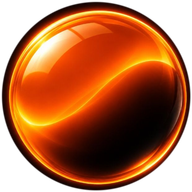
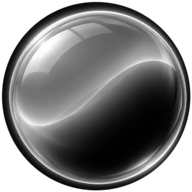
few updates more

diff --git a/src/components/orb/OrbCanvas.tsx b/src/components/orb/OrbCanvas.tsx
@@ -208,7 +208,7 @@ export default function OrbCanvas({
 
     const styles = getComputedStyle(document.documentElement);
     const accentHex = styles.getPropertyValue("--accent") || "#EA580C";
-    const accentLightHex = styles.getPropertyValue("--accent-light") || "#FB923C";
+    const accentLightHex = styles.getPropertyValue("--accent") || "#EA580C";
     const accentDarkHex = styles.getPropertyValue("--accent-hover") || "#C2410C";
 
     const vAccent = parseColorToVec3(accentHex, [0.918, 0.345, 0.047]);

diff --git a/README.md b/README.md
@@ -1,93 +1,2 @@
-# Adarsh — Personal Portfolio
-
-A dark-mode, high-craft personal portfolio built with **Next.js (App Router)**, **TypeScript**, **Tailwind CSS**, and **Framer Motion**, matching the referenced minimalist design aesthetic.
-
----
-
-## ✨ Features & Visual Details
-
-1. **Loader:**
-   - Big cursive "Adarsh" lettering centered on pure black screen.
-   - Smooth left-to-right fill animation with a glowing amber accent underline before unveiling the page.
-
-2. **Top Bar:**
-   - Minimal transparent top bar with "Adarsh" centered.
-   - Smooth-scrolls back to top on click.
-
-3. **Dock Navigation:**
-   - **Desktop (Right-side Vertical Dock):**
-     - Fixed to the extreme right edge, vertically centered.
-     - Appears after scrolling past the Hero section (`fade + slide-in` from the right).
-     - Translucent glass buttons with hover tooltips (`Home`, `Projects`, `Experience`, `Contact`, `GitHub`, `LinkedIn`, `Connect`, `Resume`).
-     - Real-time `IntersectionObserver` active section indicator.
-     - "Connect" copies email with a live feedback badge; "Resume" triggers download.
-   - **Mobile (Bottom Floating Dock):**
-     - Floating frosted glass horizontal pill at the bottom of the viewport.
-
-4. **Section 1: Hero / About:**
-   - Top metadata row: weather temperature (`☁ 24°C`) on left, live clock (`HH:MM:SS AM/PM GMT+5:30`) on right.
-   - Rounded-square avatar with subtle border.
-   - Role and bio paragraphs with bold off-white keywords and inline badges/emojis (`⚡`, `🧪`, `🇮🇳`).
-   - "Talk to agent" interactive modal button + resume icon button.
-   - Global keyboard shortcut: **Press `C` to copy email** to clipboard.
-
-5. **Section 2: Work / Projects (Folder Cards):**
-   - 2 large featured projects + compact secondary projects.
-   - Light pastel cards (`#FFFFFF`, `#EDF5ED`, `#FFFBF2`, `#FFF4F2`) standing out on the dark page.
-   - **Folder hover animation:** the front card tilts with 3D spring dynamics, revealing a colored sheet behind it angled at 10° with `"CLICK TO READ"` written vertically.
-   - Pixel-font titles (`font-pixel` / Silkscreen / Pixelify Sans).
-
-6. **Section 3: Experience & Education (List + Drag Timeline):**
-   - Top-right toggle pill: `list` | `timeline`.
-   - Handwritten `"try this \"` annotation with a curved yellow arrow pointing to the switch.
-   - **List View:** Vertical connecting line, square logo tiles (current position features an active pulsating green dot), expandable accordion with amber asterisks (`*`) on highlights.
-   - **Timeline View:** Horizontal drag-to-scroll timeline (2018–2027) with subtle year columns, top golden ambient bar, stacked lanes, short-stint tiles, and a dashed amber vertical `"now"` marker.
-   - Handwritten footer note: `"drag sideways, the last 8 years are in here"`.
-
-7. **Section 4: Stack / Tools:**
-   - Monospace label `STACK`, heading `"what I make things with"`.
-   - Categories: `DESIGN` and `MUSIC & AUDIO`.
-   - Rounded-square grayscale icon tiles with hover brightening and tooltips.
-   - Handwritten `"+ more"` at the end of each group.
-
-8. **Section 5: Contact & Type-Erase Wordmark:**
-   - Giant centered wordmark `@Adarsh`.
-   - When scrolled into view, it erases letter-by-letter (backspace effect with blinking cursor) and re-types itself into `@exorcist`.
-   - Expandable interactive glass pills:
-     - **Email pill:** expands on click with green text (`vermaadarsh1024@gmail.com`), copy button, and direct mailto arrow (`↗`).
-     - **LinkedIn & GitHub pills:** expand with direct profile URLs.
-   - Minimalist footer with location (`📍 BENGALURU, INDIA`), credits, and copyright `© 2026`.
-
----
-
-## 🛠 How to Edit Content
-
-All your personal details, projects, work history, and tools are centralized in `src/data/`:
-
-| File | What to Customize |
-|---|---|
-| [`src/data/content.ts`](file:///src/data/content.ts) | Name, role, handle, alternate handle, bio text, email, social URLs, time zone, weather |
-| [`src/data/projects.ts`](file:///src/data/projects.ts) | Project titles, tags, pastel card colors, flap colors, URLs, and preview styles |
-| [`src/data/experience.ts`](file:///src/data/experience.ts) | Company names, roles, year spans (for timeline), bullet points, and logo badges |
-| [`src/data/skills.ts`](file:///src/data/skills.ts) | Tools, categories, icons, and tooltip labels |
-
----
-
-## 🚀 Running the Project
-
-```bash
-# Start development server
-npm run dev
-# or
-bun run dev
-
-# Build for production
-npm run build
-# or
-bun run build
-
-# Start production server
-npm run start
-# or
-bun run start
+# Portfolio - Adarsh Verma
 ```
